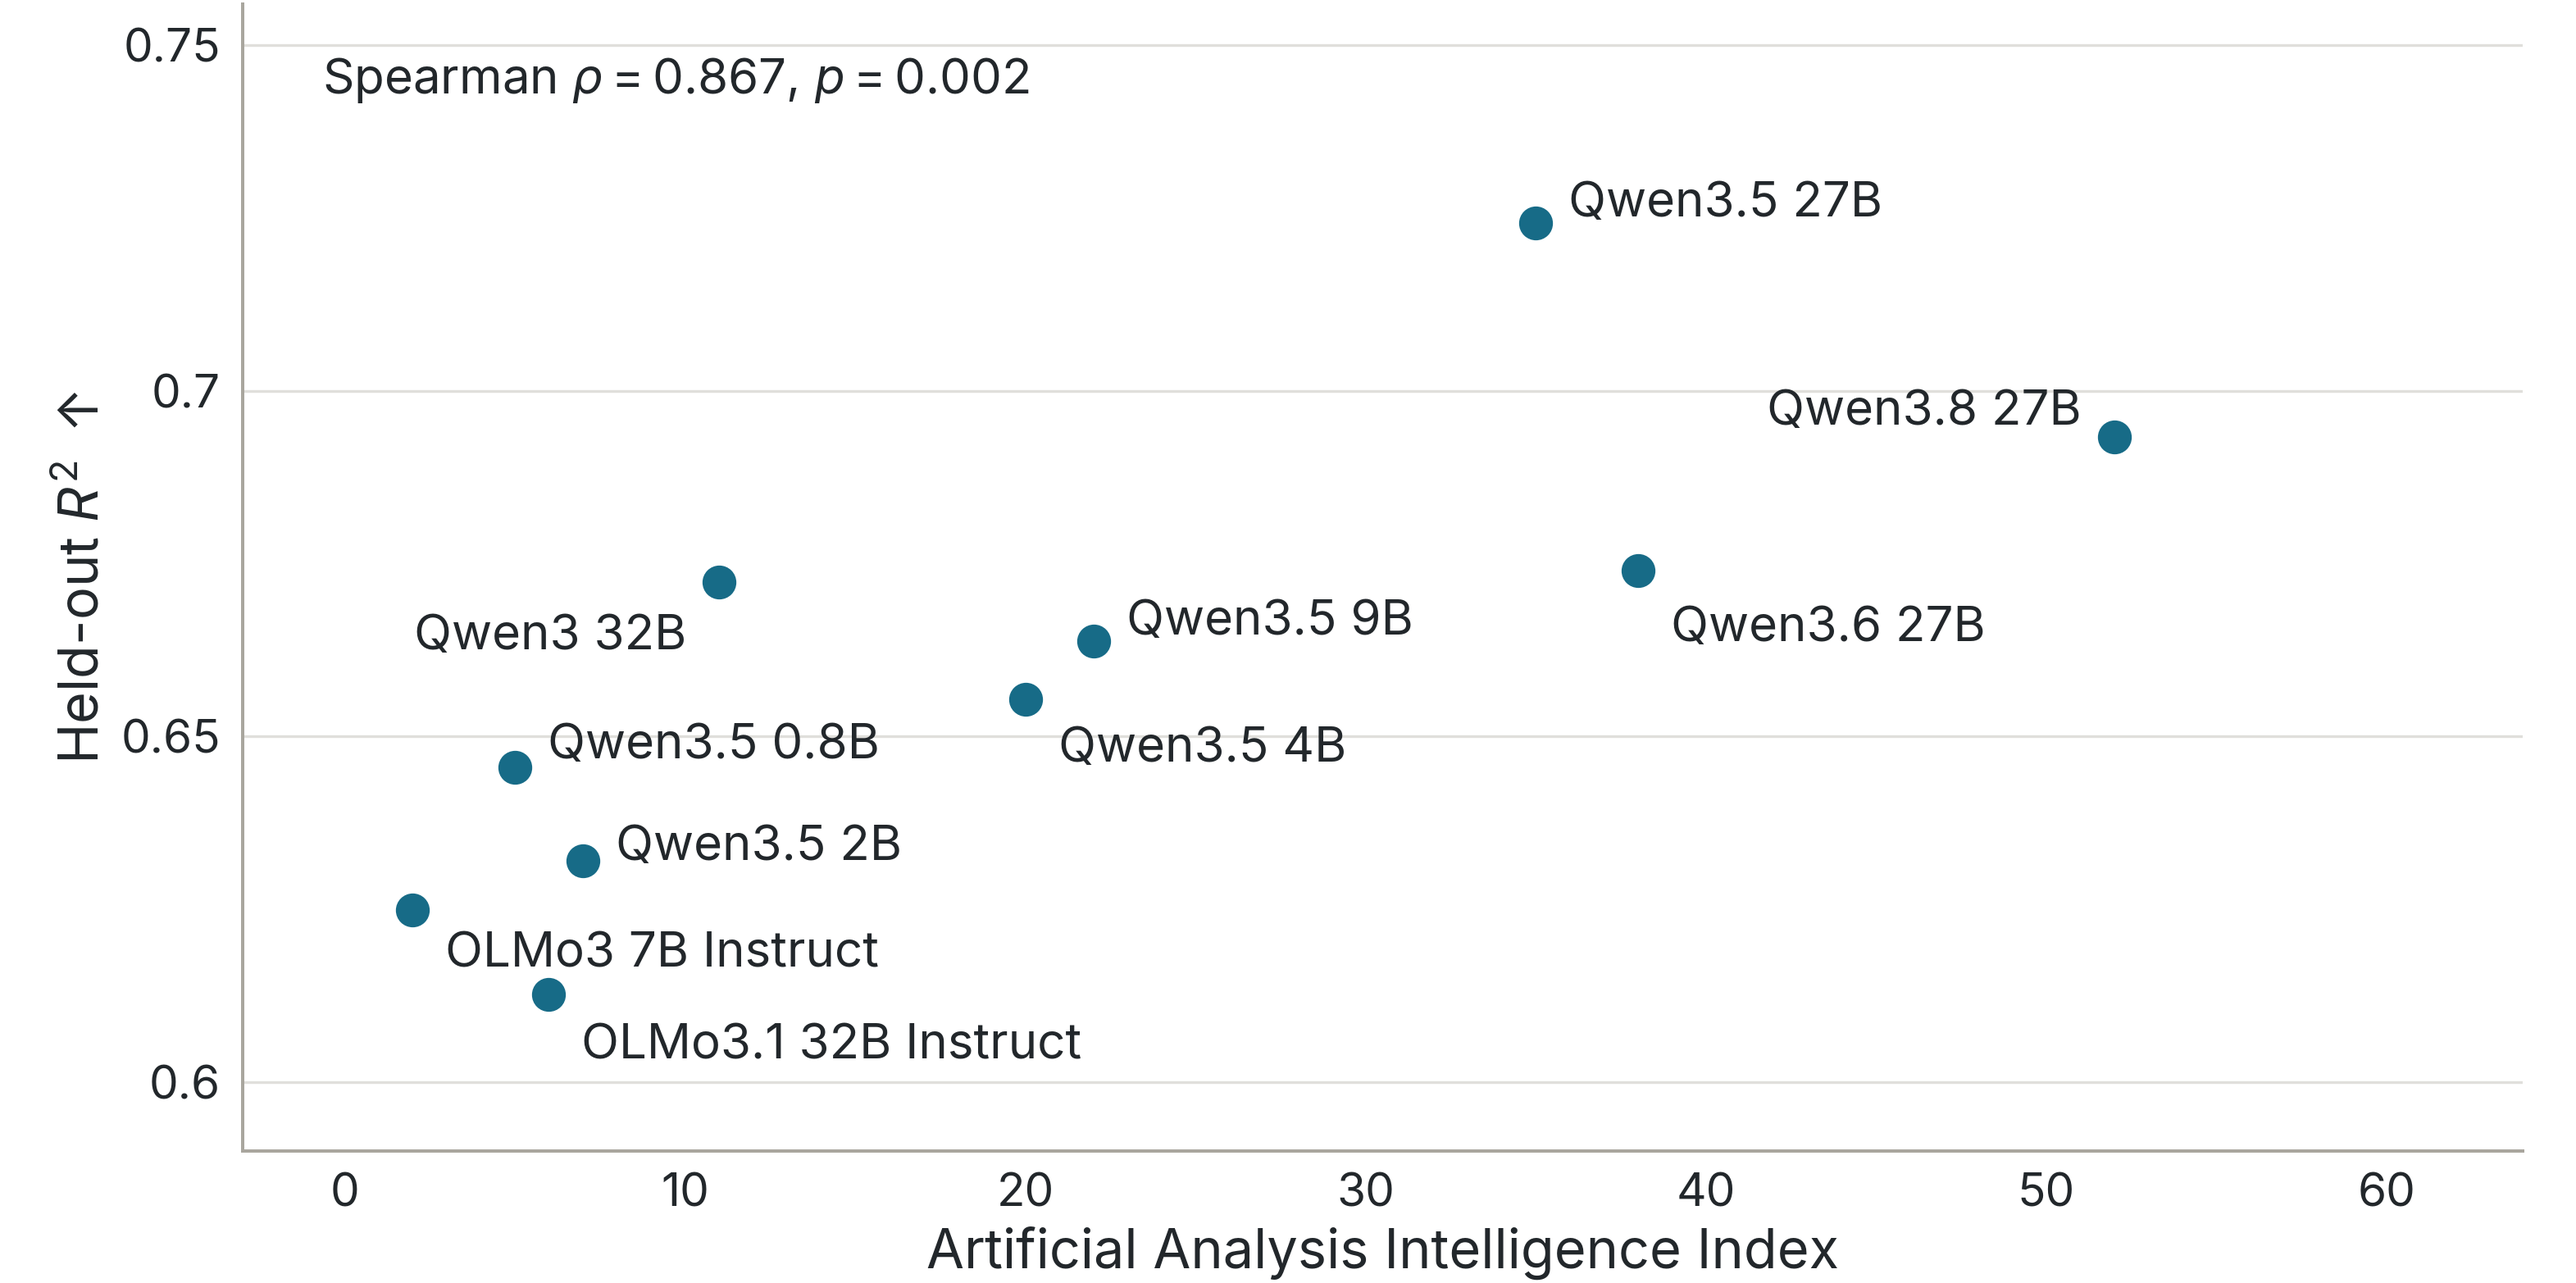
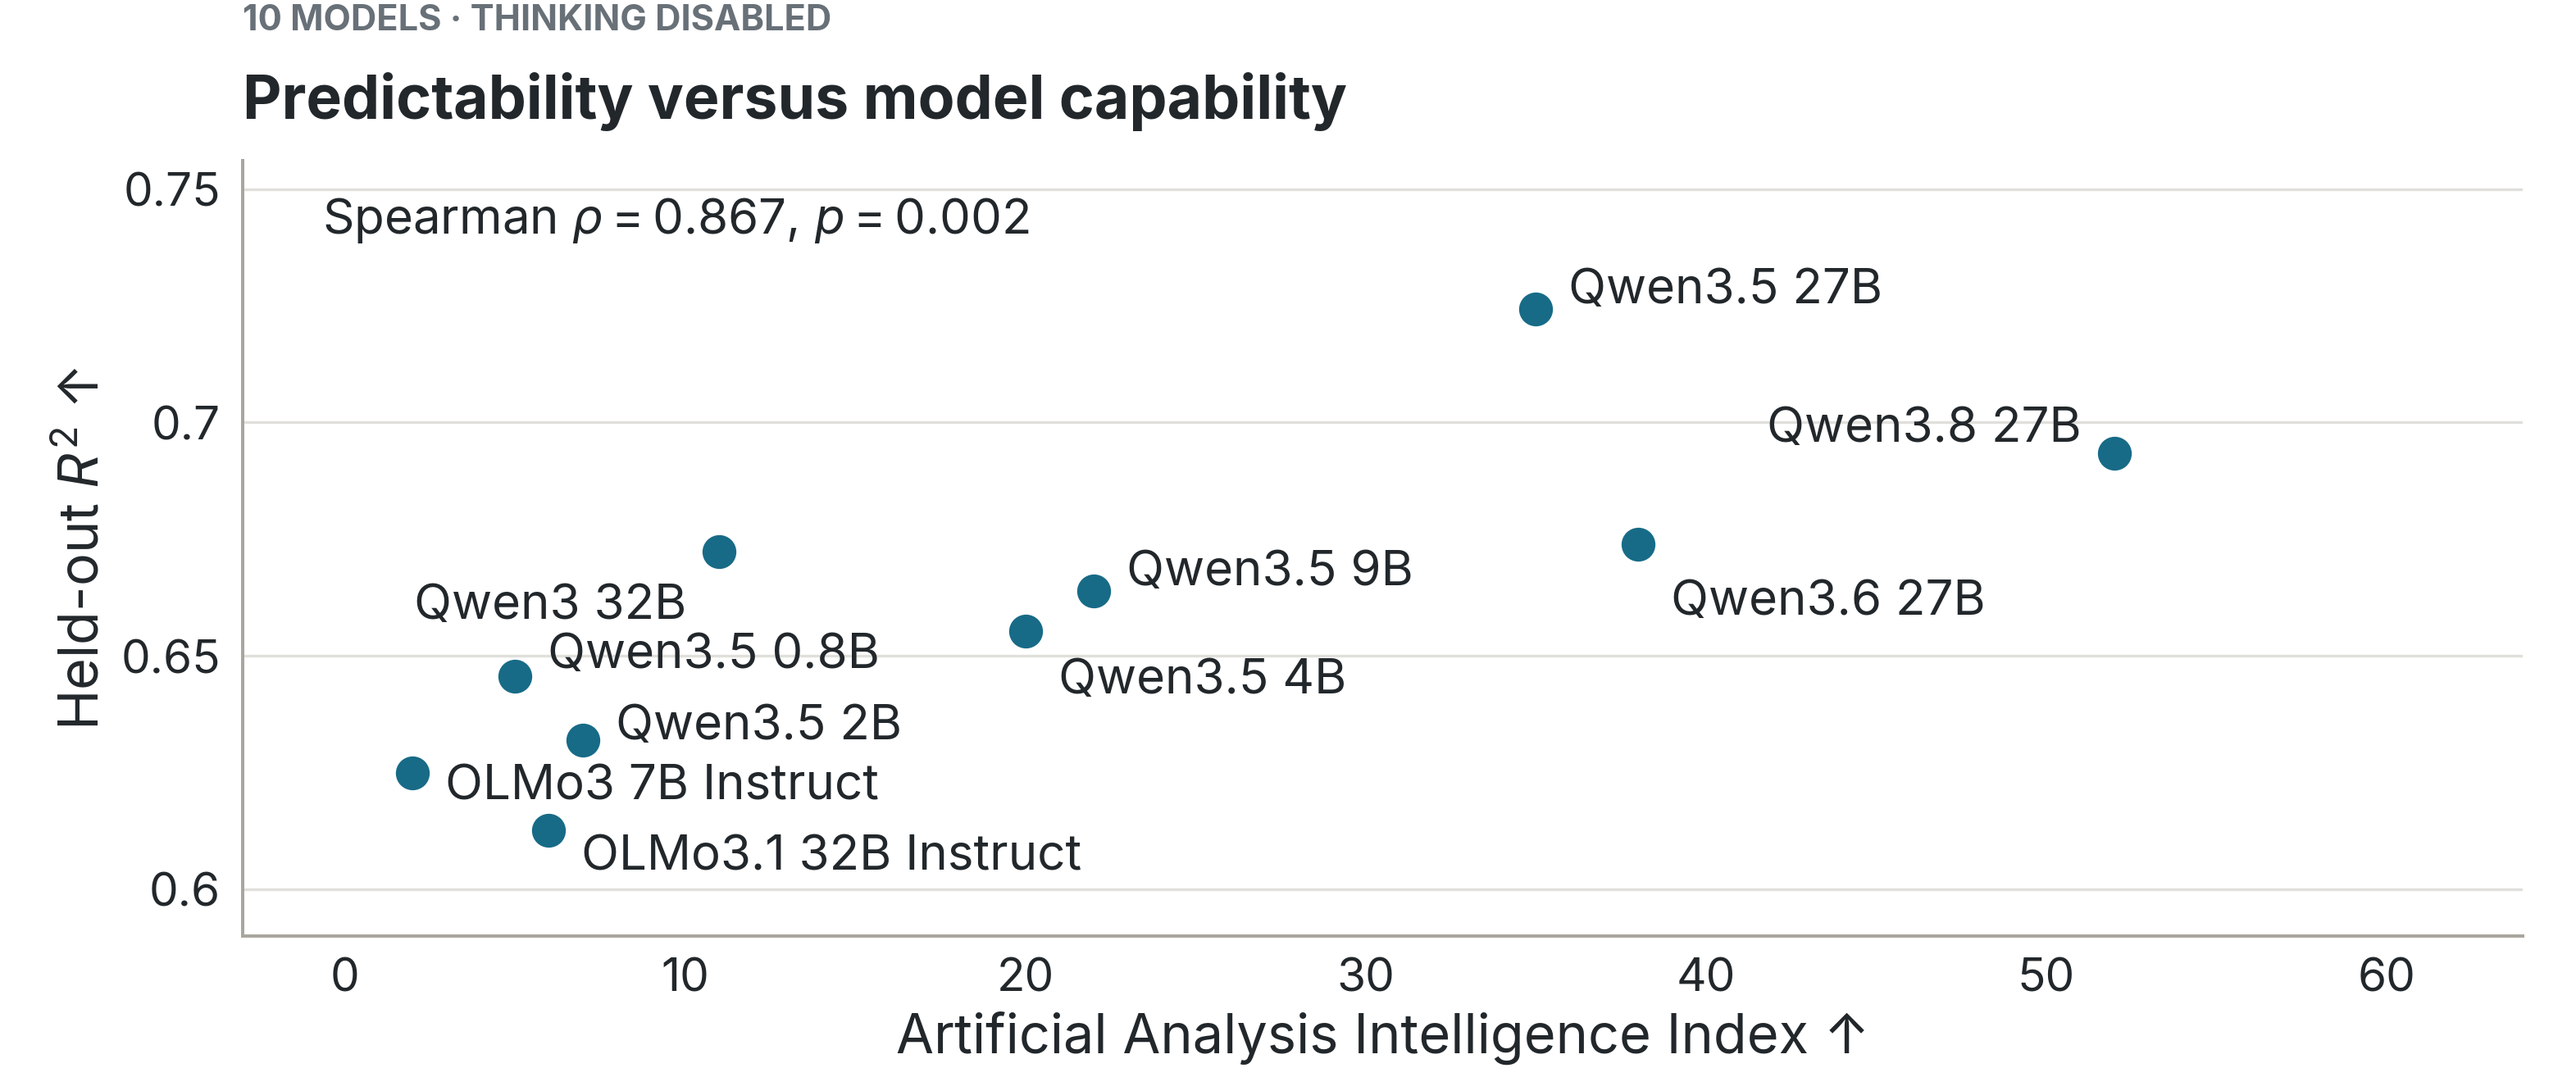
Publish restyled capability figure and manuscript edit audit

diff --git a/docs/paper_context_answer_map/capability_section_audit.md b/docs/paper_context_answer_map/capability_section_audit.md
@@ -4,7 +4,46 @@ Date: 2026-09-07. Requested addition: model capability versus held-out context-a
 metamodel R2, with a simple labelled scatter and a connection to neural-trajectory
 straightening. No inference, training, GPU jobs, or new model fits.
 
-## Latest manuscript edit: concise caption and descriptive appendix
+## Latest manuscript edit: claim-style heading, introduction, and figure layout
+
+Thomas requested a heading consistent with the neighboring declarative Results
+headings, an introduction claim, and figure styling consistent with the paper.
+The Results heading is now "Linear answer predictability correlates with model
+capability". The same claim appears after CoT in the introduction findings list,
+with a Section 4.6 reference and one evidence sentence explicitly describing the
+ten-model, thinking-disabled comparison as exploratory (Spearman rho = 0.867).
+The existing Results interpretation, caption, and descriptive appendix are unchanged.
+
+Mini-outline and paragraph roles: claim-first heading; introduction evidence
+sentence scoped to the observed comparison; unchanged detailed evidence in Results.
+Claim-evidence map: higher index scores correlate with higher held-out metamodel
+R2 in this ten-model panel; evidence is the pinned plotted coordinates and exact
+Spearman calculation in the figure sidecar; supported as an exploratory association,
+not a causal or confirmatory capability result.
+
+The existing figure already used the shared Inter font, semantic teal circles,
+and axis treatment. The restyle adds the shared descriptive panel header and
+context kicker, uses a shorter canvas, adds the higher-is-better index-axis arrow,
+and repositions the two OLMo labels. The source data, all ten coordinates, score
+provenance, exclusions, and every statistical result are unchanged. No model fits,
+inference, or GPU jobs were run.
+
+Scoped five-dimension self-review: contribution is unchanged; clarity improves
+through parallel claim wording and section order; experimental strength is not
+upgraded by the introduction mention; evaluation scope remains the ten-model
+exploratory panel; method design is unchanged. An independent reviewer verified
+the prose and scientific metadata and identified a crowded label, which was
+repositioned before the final render.
+
+Final verification: the independent reviewer confirmed that the corrected labels
+are separated in both exports. All scientific sidecar fields equal the preceding
+revision, the producer hash matches its committed script, and the Overleaf PDF
+and include width match the export. The 42-page manuscript compiles with the same
+two pre-existing unresolved citations. Introduction page 2, Results page 9, figure
+page 10, and the grayscale audit were checked visually. Ruff and the writing gate
+pass; advisory writing flags are confined to unrelated existing text.
+
+## Previous manuscript edit: concise caption and descriptive appendix
 
 Thomas supplied a revised main-text paragraph and confirmed that the panel has
 ten models. The latest edit keeps his interpretation paragraph unchanged,

diff --git a/docs/paper_context_answer_map/ai_use_log.md b/docs/paper_context_answer_map/ai_use_log.md
@@ -79,3 +79,4 @@ programmatically, never generated from model memory.
 | 2026-09-07 | Codex removed Qwen2.5-32B from the displayed capability comparison, recomputed the exact ten-model permutation test, the 56-test maxT correction, and the four-model measured-score sensitivity, and updated the section and caption. Preserved the original eleven-model result and removed coordinates in provenance. An independent read-only review reproduced the statistics. No model fits or GPU jobs were run. | Thomas requested excluding the older Qwen2.5-32B model. The text identifies the exclusion as post-hoc, reports the original-panel sensitivity, and retains exploratory and noncausal interpretation. |
 | 2026-09-07 | Codex generated a standalone thinking-enabled capability scatter from the twelve historical end-of-thought fits, preserving the existing score registry and permutation audit. Checked all coordinates and labels against pinned sources, rendered colour and grayscale versions, and obtained independent read-only verification. | Thomas asked to see the thinking plot. This is a separate companion, not a change to Overleaf or the non-thinking plot. No model fits or GPU jobs were run. |
 | 2026-09-07 | Codex shortened the model-capability caption to the other captions' claim-first style, corrected the model count to ten, replaced the appendix placeholder with a live reference, and added a two-paragraph appendix describing only the model roster and LMSYS prompts, generated answers, and data splits. | Thomas supplied the revised main prose, confirmed ten models, and requested no mention of the excluded model. His interpretation paragraph and the plotted results were left unchanged. |
+| 2026-09-07 | Codex renamed the capability subsection to a declarative claim, added the same claim with an explicitly exploratory ten-model evidence sentence to the introduction after CoT, and restyled the existing scatter with the shared descriptive header, context kicker, compact layout, and axis treatment. | Thomas requested the title, introduction claim, and plot-style alignment. All coordinates and statistics, the Results interpretation, the caption, and the descriptive appendix were preserved. Independent review checked claim support, metadata invariance, and visual readability. |
